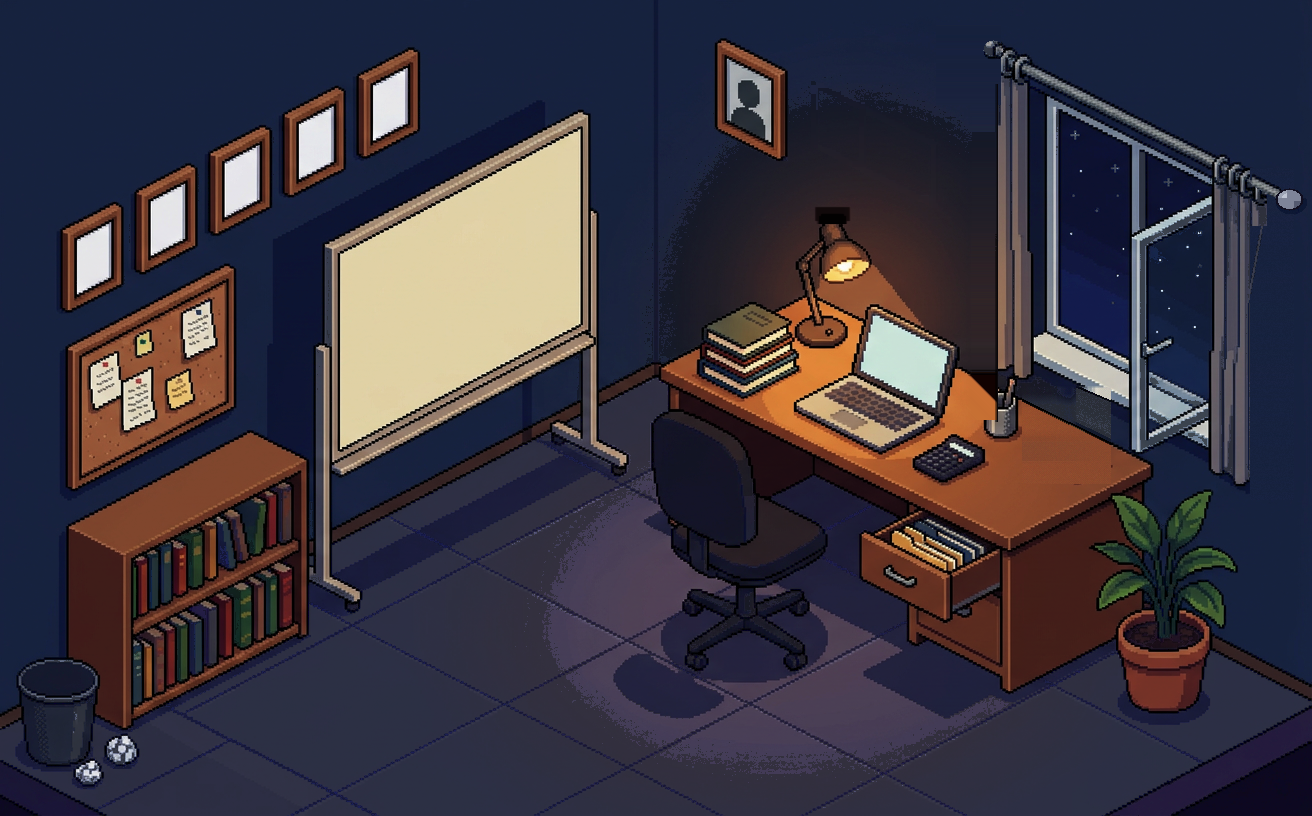
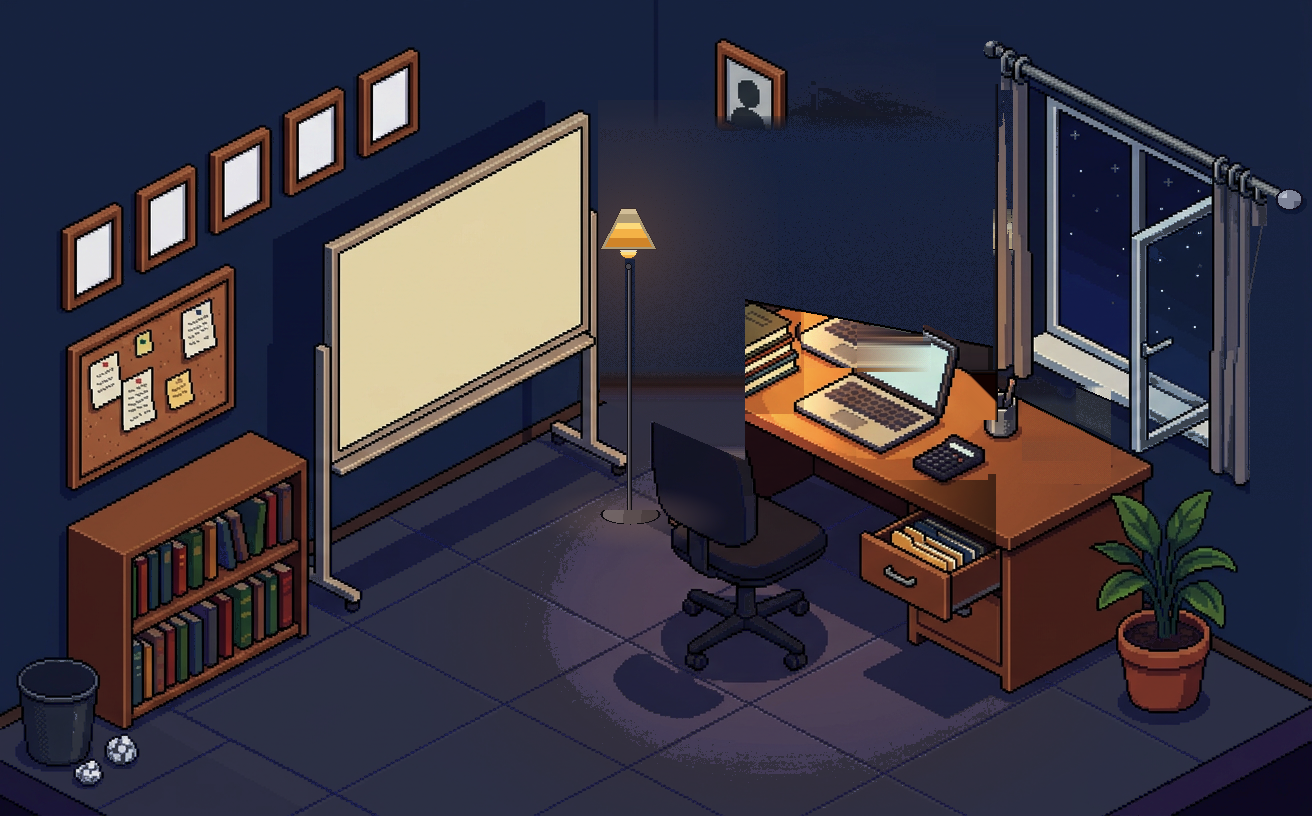
0.15.8: lampu meja diganti standing lamp di kiri meja (glow malam prosedural)

Changed region(s): [[0.4375, 0.1225, 0.7812, 0.5515], [0.6875, 0.5821, 0.7812, 0.674], [0.4375, 0.6127, 0.5312, 0.674]]

diff --git a/docs/index.html b/docs/index.html
@@ -3,7 +3,7 @@
 <head>
 <meta charset="utf-8">
 <meta name="viewport" content="width=device-width, initial-scale=1">
-<title>Ruang Kelas 0.15.7 — launcher workspace</title>
+<title>Ruang Kelas 0.15.8 — launcher workspace</title>
 <style>
   :root{
     --ink:#0E0D1A; --night:#15142A; --navy:#1D1C36; --panel:#272647;
@@ -33,7 +33,7 @@
 </head>
 <body>
 <header>
-  <h1>Ruang Kelas 0.15.7 · Launcher</h1>
+  <h1>Ruang Kelas 0.15.8 · Launcher</h1>
   <div class="sub">
     Satu layar saja: gambar workspace isometrik ukuran penuh. Tidak ada sidebar, tab, header,
     atau panel. Setiap objek di gambar bisa diketuk dan akan membuka aplikasi bawaannya —
@@ -46,14 +46,14 @@
     Di versi 0.15.5 gorden kiri dan relnya kembali ringkas — kain kiri 36 px (dari 58 px)
     dan rel mulai di ujung jendela, jadi dinding kiri tidak lagi tertutup.
   </div>
-  <a class="cta" href="../dist/RuangKelas-0.15.7-debug.apk" download>⬇ Unduh APK 0.15.7</a>
+  <a class="cta" href="../dist/RuangKelas-0.15.8-debug.apk" download>⬇ Unduh APK 0.15.7</a>
 </header>
 
 <main>
   <h2>Tampilan launcher</h2>
   <figure>
     <img src="screens/launcher.png" alt="Launcher Ruang Kelas">
-    <figcaption><b>Workspace</b> 1312 × 816 gambar asli, penuh ke seluruh layar 2560 × 1600 — latar navy gelap, lantai kalem, objek hangat di bawah lampu</figcaption>
+    <figcaption><b>Workspace</b> 1312 × 816 gambar asli, penuh ke seluruh layar 2560 × 1600 — latar navy gelap, lantai kalem, objek hangat di cahaya standing lamp</figcaption>
   </figure>
 
   <h2>Objek yang bisa diketuk</h2>

diff --git a/tools/scene_face.py b/tools/scene_face.py
@@ -44,7 +44,8 @@ NIGHT = dict(gamma=1.45, sat=0.85)
 # Cahaya siang: eksposur dinaikkan (bukan gamma — gamma memunculkan bercak
 # dithering), lalu ruangan digrade dingin-kebiruan karena satu-satunya sumber
 # cahaya adalah langit di luar jendela: pendar biru-putih di sekitar jendela dan
-# pantulan cahaya jendela di lantai. Lampu meja mati di siang (lihat lamp_off).
+# pantulan cahaya jendela di lantai. Standing lamp menyala hanya di malam
+# (night_lamp), jadi siang otomatis bebas lampu.
 DAY_GAIN = 1.50
 DAY_ADD = 0.05
 DAY_WB = (0.98, 1.00, 1.05)
@@ -57,17 +58,13 @@ DAY_FLOOR = dict(
     blur=12,
 )
 
-# Lampu meja: bohlam menyala + berkas hangat di dinding. Zona ini hanya dipakai
-# saat mode siang — lampu dimatikan dan cahayanya diganti cahaya jendela.
-BULB_BOX = (826, 202, 912, 292)     # bohlam + bukaan tudung menyala
-SHADE_BOX = (820, 178, 904, 268)    # tudung lampu (tidak diusik kecuali bohlam)
-ARM_BOX = (838, 246, 922, 414)      # lengan + kaki lampu
-BOOKS_BOX = (742, 292, 816, 404)    # tumpukan buku (tidak diusik)
-GLOW_BOX = (745, 196, 996, 442)     # dinding kena cahaya lampu (kiri gorden)
-GLOW_TOP = (770, 154, 996, 200)     # dinding atas (mencakup halo di atas tudung)
-LAPTOP_BOX = (862, 318, 976, 470)   # laptop: tetap cerah kena cahaya jendela
-BEAM_BOX = (918, 303, 990, 433)     # ujung berkas lampu yang jatuh ke meja
-WALL_REF = (700, 742)               # strip dinding bersih: sumber warna refill
+# Standing lamp (kiri meja): nyala hanya saat malam — lukisan glow prosedural,
+# sehingga siang otomatis tanpa lampu (tidak ada lamp_off lagi).
+LAMP_CX, LAMP_CY = 628, 242         # pusat cahaya tudung
+LAMP_SHADE_I = 24                   # tinggi interior tudung (y 223..246)
+LAMP_BULB = (628, 252)              # pusat bohlam di bawah bibir tudung
+HALO_BOX = (598, 100, 778, 462)     # dinding kena halo (kiri: papan tulis)
+POOL = (632, 518, 100, 34)          # kolam cahaya lantai (cx, cy, rx, ry)
 
 
 def grade(im, gamma, sat):
@@ -223,95 +220,64 @@ def _soft_in(x, y, box, feather=14):
     return max(0.0, 1.0 - d / feather)
 
 
-def lamp_off(im):
-    """Matikan lampu meja — semua per piksel dengan proteksi ber-feather,
-    jadi tidak ada tepi kotak buatan zona pemrosesan.
+def night_lamp(im):
+    """Nyalakan standing lamp untuk suasana malam.
 
-    1. Halo & berkas hangat lampu di dinding digeser jadi dingin (cahaya
-       jendela); tudung, buku, dan laptop dilindungi secara lembut.
-    2. Piksel dinding yang menyisa lebih terang dari strip acuan direduksi
-       (juga ber-feather).
-    3. Bohlam & bukaan tudung dimatikan.
-    4. Kilau hangat di lengan lampu jadi logam netral.
-    5. Berkas yang jatuh ke meja direduksi dengan tepi meluruh.
+    Base art sengaja netral (tudung krem, dinding polos) supaya siang tidak
+    perlu "mematikan" apa pun. Fungsi ini melukis tiga hal:
+    1. interior tudung + bohlam jadi hangat terang,
+    2. halo hangat di dinding di sekitar lampu,
+    3. kolam cahaya di lantai mengelilingi kaki lampu.
     """
     px = im.load()
 
-    # 1) dinding: netralkan halo hangat (proteksi lembut, tanpa tepi keras)
-    for zone in (GLOW_TOP, GLOW_BOX):
-        for y in range(zone[1], zone[3]):
-            for x in range(zone[0], zone[2]):
-                prot = max(_soft_in(x, y, SHADE_BOX), _soft_in(x, y, BOOKS_BOX),
-                           _soft_in(x, y, LAPTOP_BOX, 16))
-                if prot >= 0.98:
-                    continue
-                r, g, b = px[x, y]
-                if max(r, g, b) < 34:
-                    continue  # outline gelap
-                d = r - b
-                if d <= 18:
-                    continue  # memang sudah dingin
-                l = 0.299 * r + 0.587 * g + 0.114 * b
-                tr, tg, tb = l * 0.88, l * 0.92, l * 1.06
-                t = min(0.9, 0.15 + (d - 14) / 30.0 * 0.95) * (1.0 - prot)
-                if x > 984:
-                    t *= max(0.0, min(1.0, (996 - x) / 12.0))
-                j = ((x * 7 + y * 13) % 3) - 1
-                px[x, y] = (int(r + (tr - r) * t) + j,
-                            int(g + (tg - g) * t) + j,
-                            int(b + (tb - b) * t) + j)
+    # 1) interior tudung & bohlam
+    for i in range(LAMP_SHADE_I):
+        y = 223 + i
+        half = 7 + (15 + i) * 0.52 - 3
+        for x in range(int(round(LAMP_CX - half)) + 1, int(round(LAMP_CX + half))):
+            c = (252, 218, 122) if i < 6 else ((244, 178, 70) if i < 15 else (208, 132, 40))
+            px[x, y] = c
+    bx, by = LAMP_BULB
+    for dx in range(-8, 9):
+        for dy in range(0, 7):
+            if dx * dx / 64.0 + dy * dy / 30.0 <= 1:
+                px[bx + dx, by + dy] = (252, 218, 122) if dy < 3 else (244, 178, 70)
 
-    # 1b) piksel yang masih lebih terang dari strip acuan direduksi (feather)
-    for y in range(GLOW_TOP[1], 442):
-        ref = [px[x, y] for x in range(*WALL_REF)]
-        rl = sum(0.299 * p[0] + 0.587 * p[1] + 0.114 * p[2] for p in ref) / len(ref)
-        target = rl * 1.10
-        for x in range(GLOW_BOX[0], GLOW_BOX[2]):
-            prot = max(_soft_in(x, y, SHADE_BOX), _soft_in(x, y, BOOKS_BOX),
-                       _soft_in(x, y, LAPTOP_BOX, 16))
-            if prot >= 0.98:
-                continue
+    # 2) halo dinding
+    floor = lambda x: 402 + 0.42 * (x - 600)
+    edge = lambda x: 300 + 0.19 * (x - 745)
+    for y in range(HALO_BOX[1], HALO_BOX[3]):
+        for x in range(HALO_BOX[0], HALO_BOX[2]):
+            if x < 745 and y >= floor(x) - 2:
+                continue          # sudah lantai
+            if x >= 745 and y >= edge(x) - 1:
+                continue          # sudah meja
+            if 625 <= x <= 634 and y > 258:
+                continue          # tiang
             r, g, b = px[x, y]
-            if max(r, g, b) < 34:
-                continue
-            l = 0.299 * r + 0.587 * g + 0.114 * b
-            if l <= target:
-                continue
-            k = 1.0 - (1.0 - max(0.5, min(1.0, target / l))) * (1.0 - prot)
-            if x > 984:
-                k = 1.0 - (1.0 - k) * max(0.0, min(1.0, (996 - x) / 12.0))
-            px[x, y] = (min(255, int(r * k)), min(255, int(g * k)), min(255, int(b * k)))
-
-    # 2) bohlam & bukaan tudung mati
-    x0, y0, x1, y1 = BULB_BOX
-    for y in range(y0, y1):
-        for x in range(x0, x1):
-            r, g, b = px[x, y]
-            if (r > 140 and r - b > 15) or min(r, g, b) > 185 or (y > 252 and r > 120 and r - b > 28):
-                px[x, y] = (56, 48, 52)
-
-    # 3) lengan lampu jadi logam netral (dinding di luar box sudah dingin,
-    #    jadi batas box tak terlihat)
-    ax0, ay0, ax1, ay1 = ARM_BOX
-    for y in range(ay0, ay1):
-        for x in range(ax0, ax1):
-            r, g, b = px[x, y]
-            if r > 130 and r - b > 40:
-                l = 0.299 * r + 0.587 * g + 0.114 * b
-                px[x, y] = (int(l * 0.94), int(l * 0.92), int(l * 0.98))
-
-    # 4) berkas di meja direduksi, tepi zona meluruh
-    bx0, by0, bx1, by1 = BEAM_BOX
-    for y in range(by0 - 14, by1 + 14):
-        for x in range(bx0 - 14, bx1 + 14):
-            w = _soft_in(x, y, BEAM_BOX, 18)
+            if b <= r:
+                continue          # bukan dinding navy (objek lain)
+            d = ((x - LAMP_CX) * 1.15) ** 2 + (y - LAMP_CY) ** 2
+            d = d ** 0.5
+            w = max(0.0, 1.0 - d / 205.0) ** 1.55 * 0.8
             if w <= 0.02:
                 continue
+            # target hangat absolut: dinding dipetakan ke warna cahaya lampu
+            px[x, y] = (int(r + (88 - r) * w), int(g + (66 - g) * w), int(b + (60 - b) * w))
+
+    # 3) kolam cahaya lantai
+    cx, cy, rx, ry = POOL
+    for y in range(cy - ry - 6, cy + ry + 6):
+        for x in range(cx - rx - 6, cx + rx + 6):
+            n = ((x - cx) / rx) ** 2 + ((y - cy) / ry) ** 2
+            if n > 1.0:
+                continue
             r, g, b = px[x, y]
-            l4 = 0.299 * r + 0.587 * g + 0.114 * b
-            if r - b > 80 and l4 > 125:
-                k = 1.0 - 0.30 * w
-                px[x, y] = (int(r * k), int(g * k), int(b * (k + 0.05)))
+            if r + g + b < 60:
+                continue          # outline gelap tetap gelap
+            w = (1.0 - n) ** 1.5 * 0.5
+            px[x, y] = (int(r + (112 - r) * w), int(g + (88 - g) * w), int(b + (82 - b) * w))
     return im
 
 
@@ -355,8 +321,10 @@ def load_scene(mode="night"):
     raw = Image.open(ART).convert("RGB")
     im = restyle_background(grade(raw, NIGHT["gamma"], NIGHT["sat"]))
     if mode == "day":
-        base = lamp_off(im)
-        im = add_daylight(base)
+        base = im
+        im = add_daylight(im)
         im = paint_day_sky(im, mask_from=base)
+    else:
+        im = night_lamp(im)
     return im
 

diff --git a/README.md b/README.md
@@ -5,26 +5,32 @@ satu layar berisi gambar workspace isometrik ukuran penuh. Tanpa sidebar, tanpa 
 tanpa header, tanpa panel. Setiap objek di gambar bisa diketuk untuk membuka aplikasi
 bawaannya — aplikasi itu dibuat menyusul, satu per satu.
 
-**Status: v0.15.7 — kalender meja dihapus (pintu Kalender sementara tanpa objek);
-sebelumnya jam digital dinding dihapus — pintu ke aplikasi Jadwal kini papan tulis
-berjudul "Jadwal Mengajar"; jendela tanpa palang dengan gorden & daun tanaman yang
-bergoyang; rel gorden jadi penunjuk baterai dengan persentase tertulis di dinding;
-tempat sampah membuka file manager; suasana siang/malam mengikuti jam perangkat.**
+**Status: v0.15.8 — lampu meja diganti standing lamp di kiri meja (menyala hanya
+saat malam, lengkap dengan halo dinding & kolam cahaya di lantai); sebelumnya
+kalender meja dan jam digital dihapus — pintu ke aplikasi Jadwal kini papan tulis
+berjudul "Jadwal Mengajar"; gorden & daun tanaman bergoyang; rel gorden jadi
+penunjuk baterai dengan persentase tertulis di dinding; tempat sampah membuka
+file manager; suasana siang/malam mengikuti jam perangkat.**
 
-Perbaikan 0.15.7: kalender meja (kertas tent + spiral) dihapus dari gambar dan
+Perbaikan 0.15.8: lampu meja dihapus dari gambar dan diganti standing lamp
+berdiri di lantai di sebelah kiri meja — base art netral, dan scene_face kini
+menggambar cahayanya prosedural hanya untuk malam (interior tudung hangat, halo
+di dinding, kolam cahaya di lantai), sehingga siang otomatis bebas lampu tanpa
+langkah "mematikan" apa pun. Dan sebelumnya, 0.15.7: kalender meja (kertas tent
++ spiral) dihapus dari gambar dan
 hotspot-nya pun demikian — layar Kalender masih ada, menunggu pintu baru. Dan
 sebelumnya, 0.15.6: jam digital dinding (jam:menit, tanggal, bilah detik) dan
 sisa benderanya dihapus dari launcher — dinding kini bersih, dan mengetuk papan
-tulis "Jadwal Mengajar" yang membuka aplikasi Jadwal. Dan sebelumnya, 0.15.5:
-saat siang lampu meja MATI — pencahayaan ruangan datang dari
-jendela (gradasi dingin kebiruan, pantulan cahaya jendela di lantai, bayangan jatuh
-ke kanan-bawah). Malam tetap lampu menyala. Dan sebelumnya, sisi kanan gorden:
+tulis "Jadwal Mengajar" yang membuka aplikasi Jadwal. Sebelumnya lagi, rel 0.15.4:
+saat siang kecerahan ruangan datang dari jendela (gradasi dingin kebiruan,
+pantulan cahaya jendela di lantai, bayangan jatuh ke kanan-bawah) — kini kecerahan
+meja bergeser ke kiri (arah standing lamp). Dan sebelumnya, sisi kanan gorden:
 kain 36 px (dari 58 px) dan rel mulai tepat di ujung jendela sehingga dinding kiri
 tidak lagi tertutup; garis rel dan angka persentase dibuat lebih tipis/kecil.
 
 | | |
 |---|---|
-| APK siap pasang | [`dist/RuangKelas-0.15.7-debug.apk`](dist/RuangKelas-0.15.7-debug.apk) |
+| APK siap pasang | [`dist/RuangKelas-0.15.8-debug.apk`](dist/RuangKelas-0.15.8-debug.apk) |
 | Build otomatis | [`.github/workflows/android.yml`](.github/workflows/android.yml) |
 | Bukti jalan | [`docs/index.html`](docs/index.html) · [`docs/screens/`](docs/screens) |
 | Prototipe HTML lama | [`preview-ruang-kelas.html`](preview-ruang-kelas.html) (acuan desain) |
@@ -33,7 +39,7 @@ tidak lagi tertutup; garis rel dan angka persentase dibuat lebih tipis/kecil.
 
 ## Cara memasang
 
-1. Unduh `dist/RuangKelas-0.15.7-debug.apk`, buka di tablet, izinkan "instal dari sumber ini".
+1. Unduh `dist/RuangKelas-0.15.8-debug.apk`, buka di tablet, izinkan "instal dari sumber ini".
 2. Buka **Ruang Kelas** — launcher langsung tampil penuh, landscape, tanpa system bar.
 
 ## Mode landscape
@@ -146,6 +152,6 @@ cd android && gradle :app:assembleDebug
 ```
 
 GitHub Actions menjalankan hal yang sama, menyimpan APK ke `dist/`, dan memperbarui
-release `v0.15.7-android`. Workflow kedua (`android-preview.yml`, dipicu
+release `v0.15.8-android`. Workflow kedua (`android-preview.yml`, dipicu
 `.ci/preview.trigger`) memasang APK di emulator tablet 2560 × 1600, memotret launcher,
 mengetuk beberapa objek, lalu menyimpan screenshot ke `docs/screens/`.
